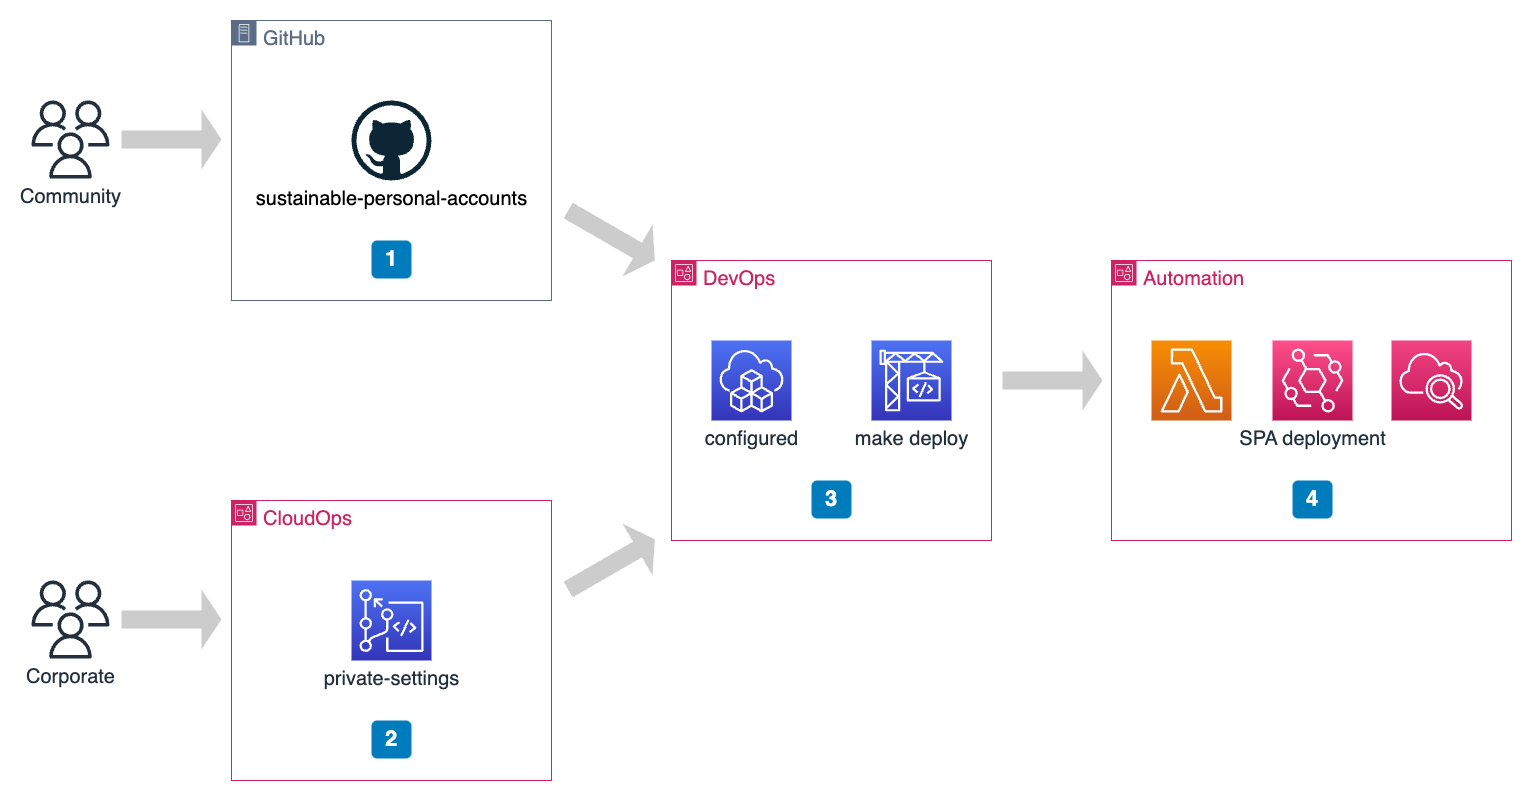
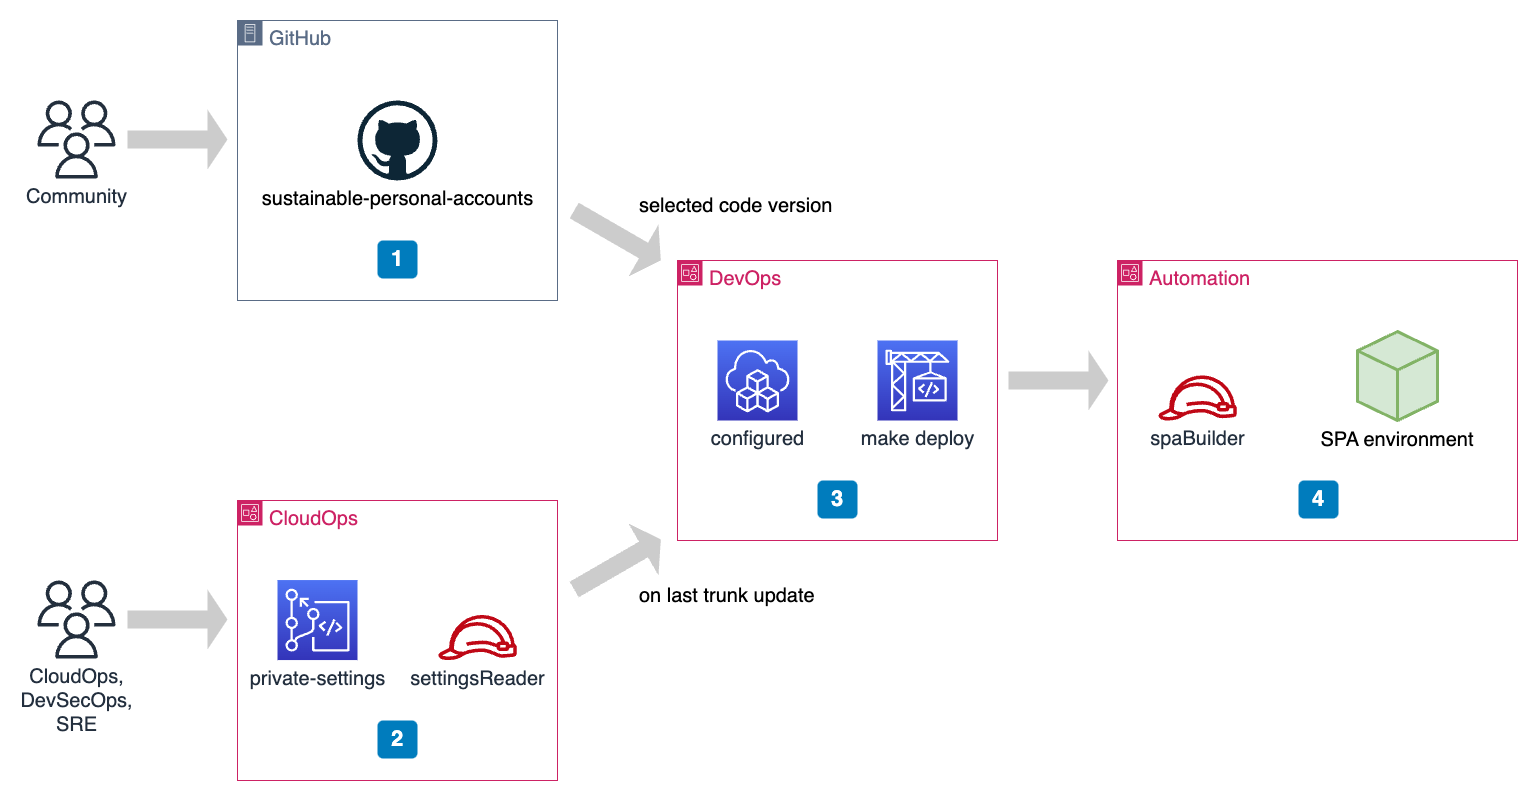
iterate on gitops architectural diagram - #117

diff --git a/tests/test_lambda_on_cost_computation_handler.py b/tests/test_lambda_on_cost_computation_handler.py
@@ -35,7 +35,7 @@ from lambdas.on_cost_computation_handler import (build_charge_reports_per_cost_c
                                                  get_report_path,
                                                  store_report)
 
-pytestmark = pytest.mark.wip
+# pytestmark = pytest.mark.wip
 
 
 @pytest.mark.unit_tests
